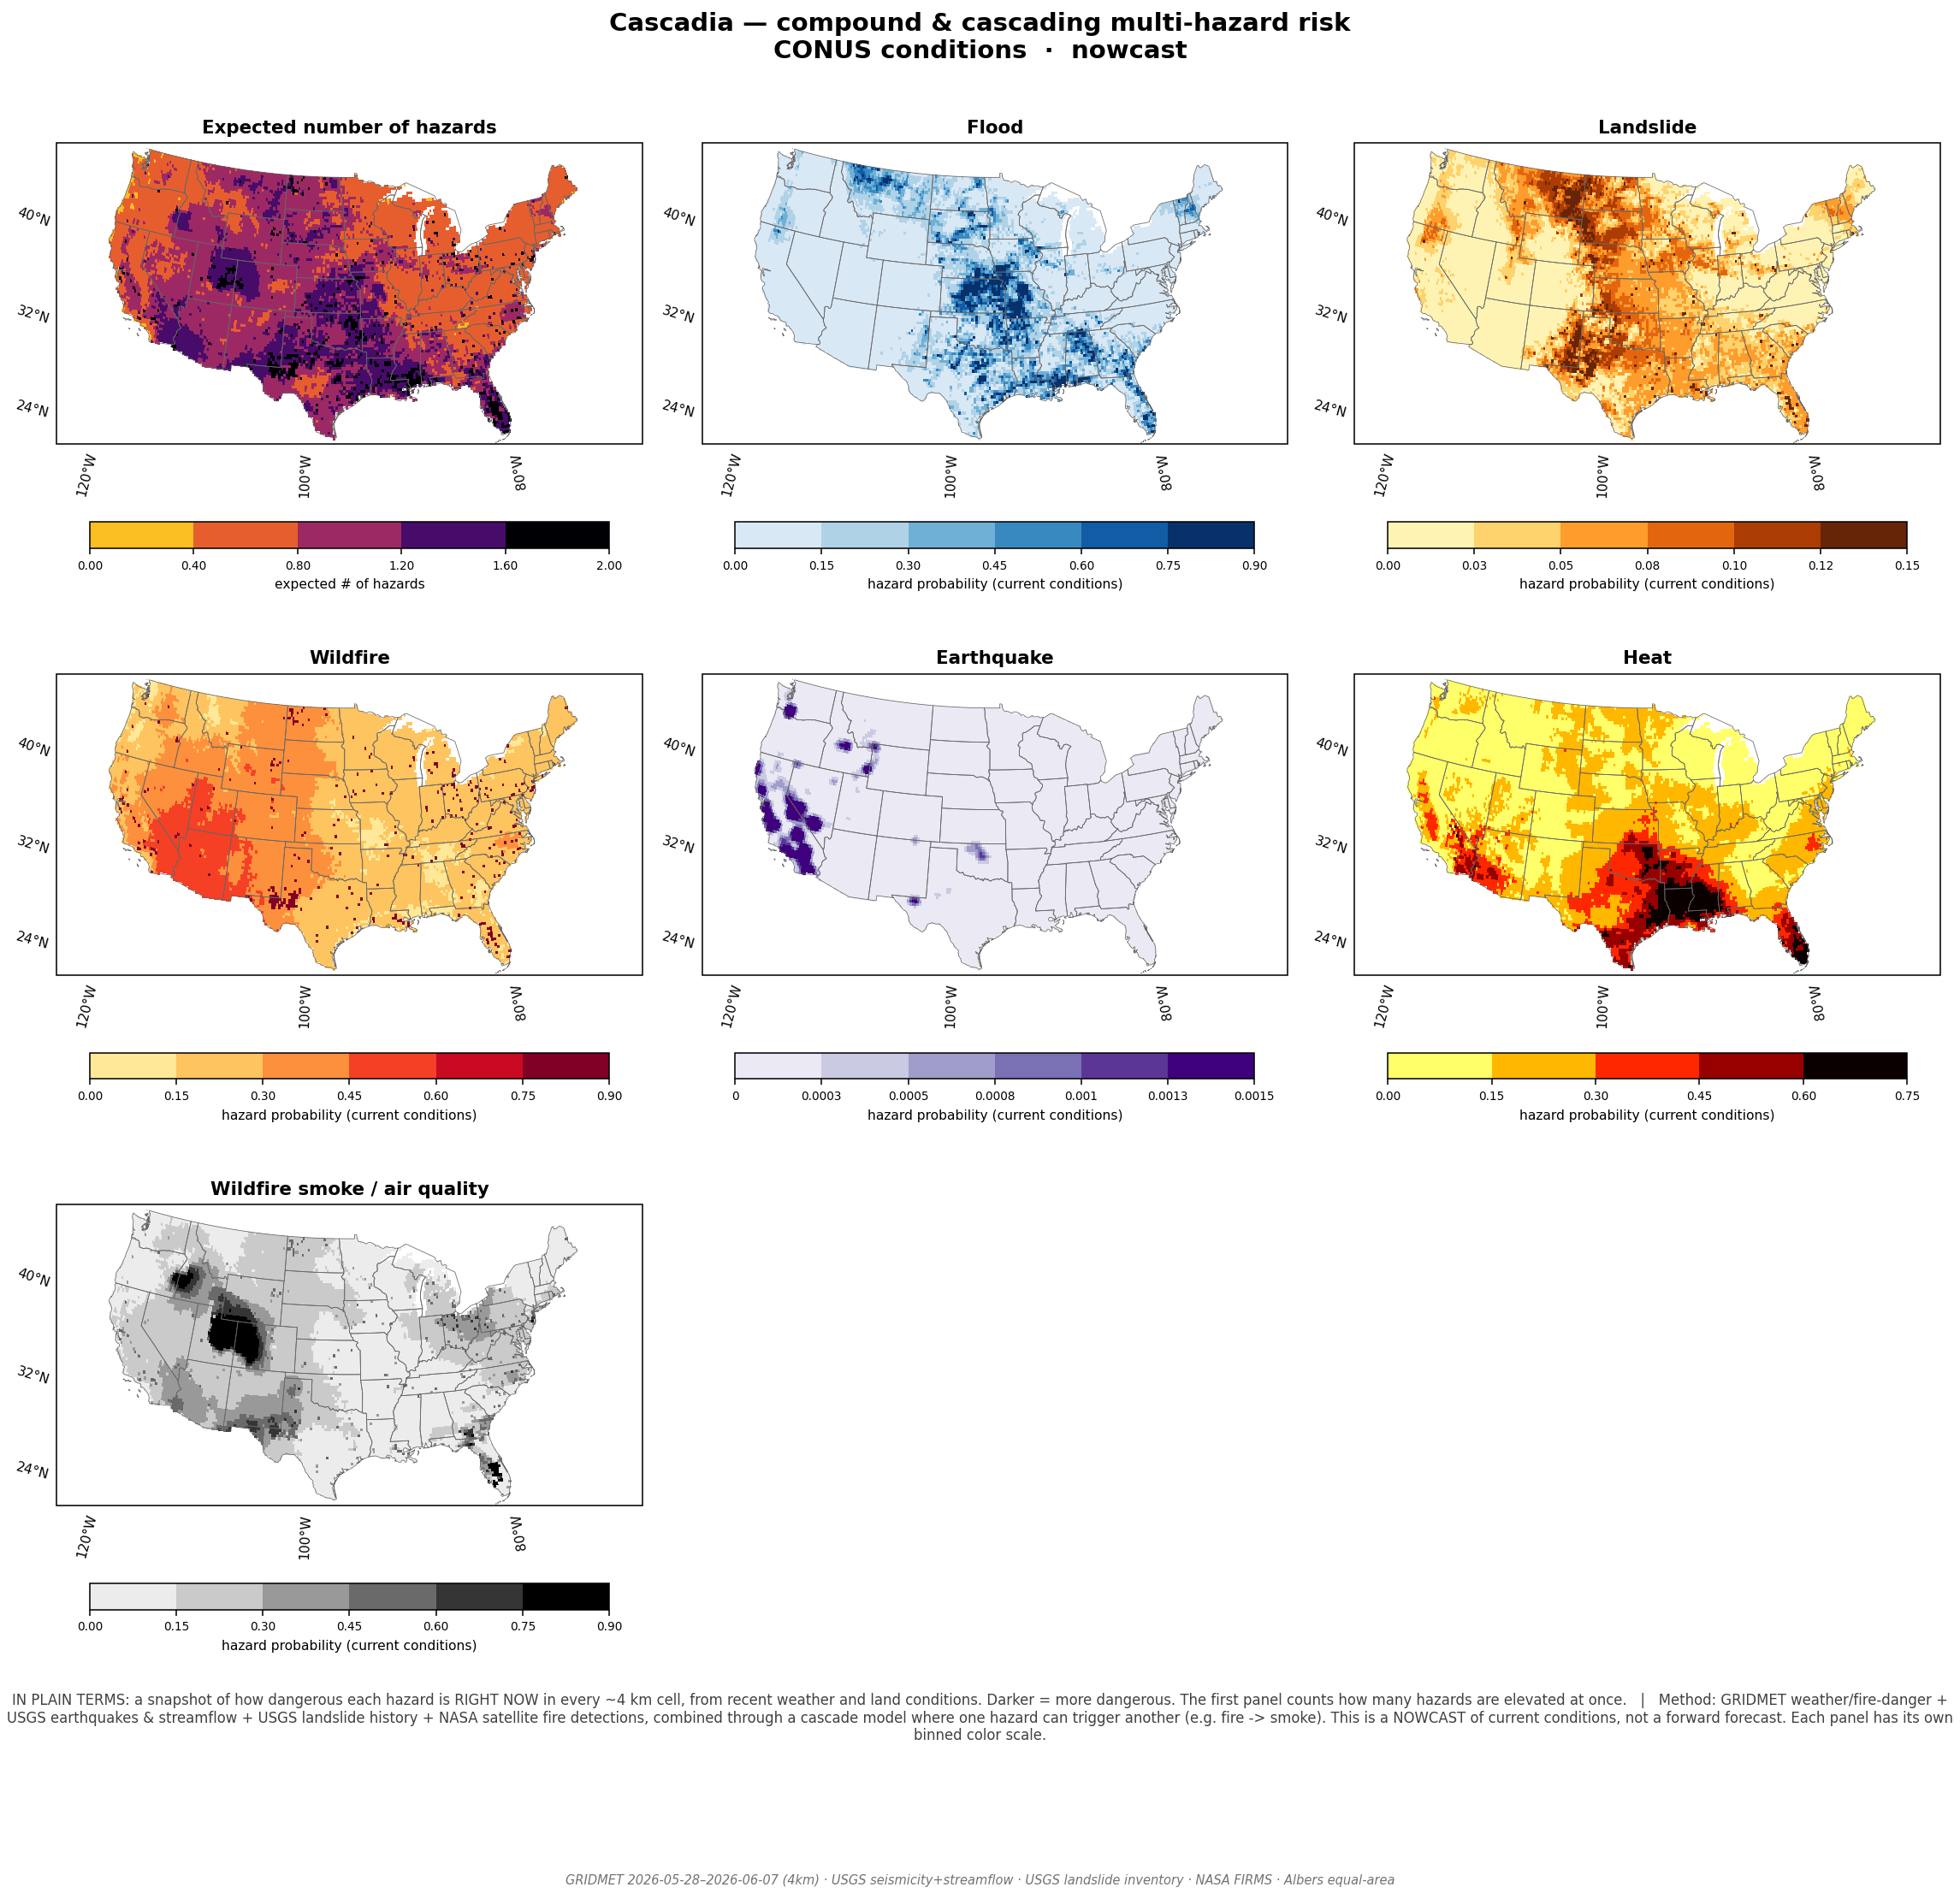
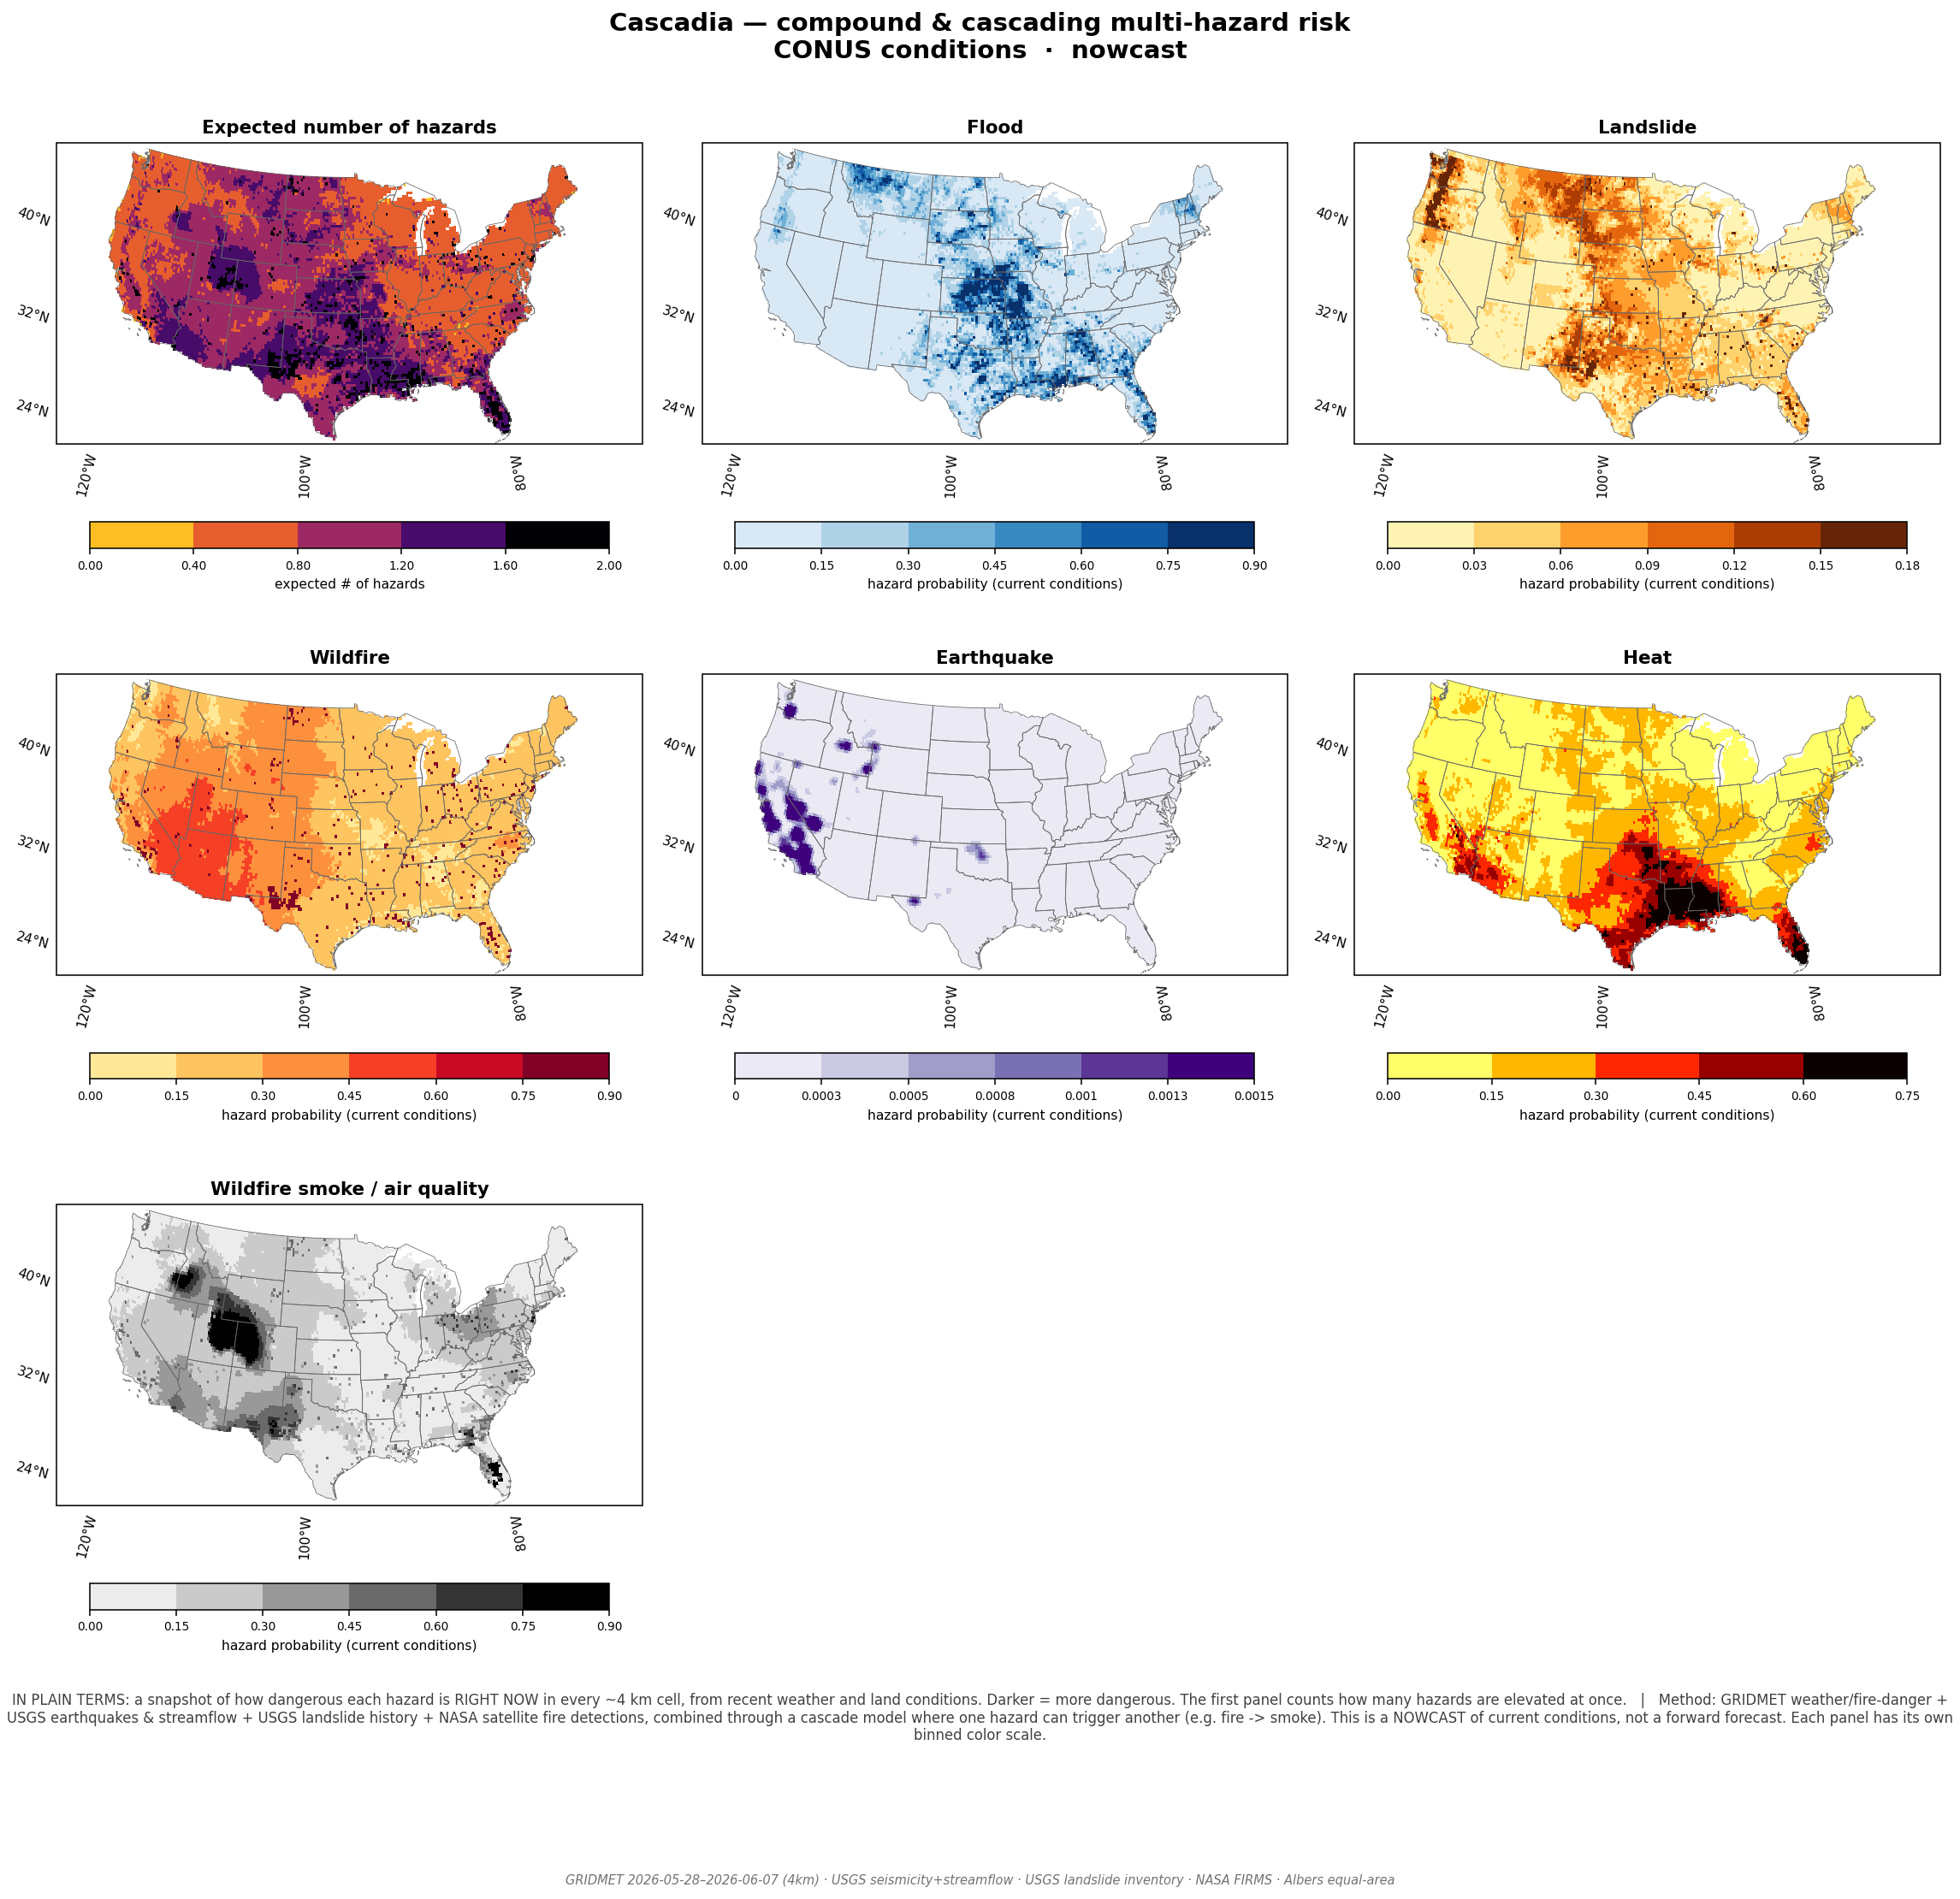
Fix landslide artifact: terrain gate so flat ground reads ~0
A reviewer-class catch: the CONUS map showed landslide risk across flat states
(Florida, the Plains) during heavy rain. Two causes, both fixed:

1) _landslide_susceptibility applied a 0.15 floor to EVERY cell, so flat,
   slide-free terrain inherited a baseline that heavy rain then triggered.
   Removed the floor: zero inventory density -> ~zero susceptibility.

2) The gridded pipeline had no terrain gate (only the per-parcel report fetched
   DEM slope). Added cell_relief() — local topographic relief via a cKDTree
   neighbourhood of cell-centre elevations (robust to grid alignment, unlike an
   exact-coordinate lookup) — and relief_factor() gating susceptibility: ~0 below
   ~40 m local relief (Florida, Plains), ramping to 1 by ~300 m. Wired into the
   conditions nowcast. Added retries to the batch elevation fetch so rate-limited
   chunks don't leave NaN holes.

Result: landslide signal now concentrates in the PNW, Rockies, Appalachians and
other real slide terrain; flat Florida/Plains read ~0 regardless of rainfall.
Refresh the CONUS hero image. 26 tests pass.

diff --git a/cascadia/sources/elevation.py b/cascadia/sources/elevation.py
@@ -19,20 +19,25 @@ import requests
 ELEV_URL = "https://api.open-meteo.com/v1/elevation"
 
 
-def _fetch_elevations(lats, lons, timeout: int = 60) -> np.ndarray:
-    """Elevation (m) for points, in chunks of 100 (the API limit)."""
+def _fetch_elevations(lats, lons, timeout: int = 60, retries: int = 4) -> np.ndarray:
+    """Elevation (m) for points, in chunks of 100 (the API limit), with retries on
+    failed chunks (the batch DEM API rate-limits, leaving NaN holes otherwise)."""
+    import time
     lats, lons = np.asarray(lats, float), np.asarray(lons, float)
     out = np.full(len(lats), np.nan)
     for i in range(0, len(lats), 100):
         sl = slice(i, i + 100)
         params = {"latitude": ",".join(f"{v:.5f}" for v in lats[sl]),
                   "longitude": ",".join(f"{v:.5f}" for v in lons[sl])}
-        try:
-            r = requests.get(ELEV_URL, params=params, timeout=timeout)
-            r.raise_for_status()
-            out[sl] = r.json()["elevation"]
-        except Exception:
-            pass
+        for attempt in range(retries):
+            try:
+                r = requests.get(ELEV_URL, params=params, timeout=timeout)
+                r.raise_for_status()
+                out[sl] = r.json()["elevation"]
+                break
+            except Exception:
+                if attempt < retries - 1:
+                    time.sleep(1.5 * (attempt + 1))
     return out
 
 
@@ -93,3 +98,46 @@ def slope_factor(slope_deg) -> np.ndarray:
     """Landslide slope susceptibility multiplier in [0,1]: ~0 below ~3 deg
     (flat = stable), rising to 1 by ~20 deg. Linear ramp 3->20 degrees."""
     return np.clip((np.asarray(slope_deg, float) - 3.0) / 17.0, 0.0, 1.0)
+
+
+def cell_relief(cells, cache_dir: Path, res_deg: float) -> np.ndarray:
+    """Local topographic relief (metres) per grid cell = elevation range over the
+    cell + its 8 neighbours. A scale-appropriate terrain gate for COARSE grids,
+    where a slope *angle* would be near-zero everywhere: flat terrain (Florida, the
+    Great Plains) has ~tens of m of relief, real mountains have hundreds+. Cached
+    per region (elevation is static)."""
+    lats = cells["lat"].to_numpy(); lons = cells["lon"].to_numpy()
+    key = hashlib.sha1(
+        f"relief_{lats.min():.3f}_{lats.max():.3f}_{lons.min():.3f}_{lons.max():.3f}"
+        f"_{res_deg}_{len(lats)}".encode()).hexdigest()[:16]
+    cache = Path(cache_dir) / f"relief_{key}.json"
+    if cache.exists():
+        try:
+            return np.array(json.loads(cache.read_text()))
+        except Exception:
+            pass
+    elev = _fetch_elevations(lats, lons)
+    # Spatial neighbourhood via KDTree on projected km — robust to grid alignment
+    # / float rounding (the exact-coordinate lookup silently missed neighbours).
+    from scipy.spatial import cKDTree
+    coslat = np.cos(np.radians(np.nanmean(lats)))
+    xy = np.column_stack([lons * 111.0 * coslat, lats * 111.0])
+    tree = cKDTree(xy)
+    radius_km = res_deg * 111.0 * 1.8   # ~the 8-neighbour ring
+    relief = np.zeros(len(lats))
+    for i in range(len(lats)):
+        nb = tree.query_ball_point(xy[i], radius_km)
+        vals = elev[nb]
+        vals = vals[np.isfinite(vals)]
+        relief[i] = float(np.ptp(vals)) if len(vals) >= 2 else 0.0
+    try:
+        cache.write_text(json.dumps(relief.tolist()))
+    except Exception:
+        pass
+    return relief
+
+
+def relief_factor(relief_m, r0: float = 40.0, r1: float = 300.0) -> np.ndarray:
+    """Terrain gate in [0,1] from local relief (m): ~0 on flat ground (relief <
+    ~40 m, e.g. Florida / the Plains), ramping to 1 by ~300 m of local relief."""
+    return np.clip((np.asarray(relief_m, float) - r0) / (r1 - r0), 0.0, 1.0)

diff --git a/cascadia/features/indicators.py b/cascadia/features/indicators.py
@@ -231,17 +231,23 @@ def _landslide_susceptibility(cells: pd.DataFrame, inventory: pd.DataFrame,
     """Relative landslide susceptibility in [0,1] from smoothed historical
     landslide density (USGS inventory). Like the seismicity prior but, since the
     inventory is a compilation rather than a complete temporal catalog, used as a
-    *relative* spatial susceptibility, not an absolute rate. A small floor keeps
-    rainfall triggering meaningful everywhere."""
+    *relative* spatial susceptibility, not an absolute rate.
+
+    NO floor: a cell with no historical slides reads ~0, so heavy rain over flat,
+    slide-free terrain (e.g. the Great Plains) does NOT manufacture a landslide
+    signal. The inventory itself is the terrain gate — slides are only recorded on
+    real slopes — which is what the per-parcel DEM slope gate enforces directly.
+    """
     import numpy as np
     if inventory is None or inventory.empty:
-        return pd.Series(0.3, index=cells.index)
+        return pd.Series(0.0, index=cells.index)
     d = _smoothed_density(cells["lat"].to_numpy(), cells["lon"].to_numpy(),
                           inventory["lat"].to_numpy(), inventory["lon"].to_numpy(),
                           bandwidth_km)
-    # Normalize by a high percentile (robust to a few dense clusters), floor 0.15.
+    # Normalize by a high percentile (robust to a few dense clusters). No floor:
+    # zero inventory density -> ~zero susceptibility -> ~zero landslide risk.
     scale = np.percentile(d, 95) or 1.0
-    return pd.Series(np.clip(0.15 + 0.85 * d / scale, 0.0, 1.0), index=cells.index)
+    return pd.Series(np.clip(d / scale, 0.0, 1.0), index=cells.index)
 
 
 def build_indicators(

diff --git a/cascadia/conditions.py b/cascadia/conditions.py
@@ -134,11 +134,17 @@ def conditions_map(region_key: str = "pnw", resolution_deg: float | None = None,
     cells["quake_mag"] = 0.0   # no per-cell aftershock layer in the broad nowcast
     inv = LandslideInventory(cfg).fetch()
     cells["ls_susceptibility"] = _landslide_susceptibility(cells, inv)
+    # Terrain gate: landslides need relief. Inventory density alone is biased by
+    # reporting (flat Florida has logged points); multiply by a local-relief gate
+    # so flat, slide-free terrain reads ~0 regardless of rain. (Coarse-grid
+    # equivalent of the per-parcel DEM slope gate.)
     try:
-        from .sources.elevation import cell_slopes
-        cells["slope_deg"] = cell_slopes(cells, cfg.cache_dir, res)
-    except Exception:
-        pass
+        from .sources.elevation import cell_relief, relief_factor
+        rf = relief_factor(cell_relief(cells, cfg.cache_dir, res))
+        cells["ls_susceptibility"] = cells["ls_susceptibility"] * rf
+        log(f"landslide terrain gate: {(rf > 0.1).mean():.0%} of cells have relief")
+    except Exception as e:
+        log(f"(relief gate skipped: {e})")
     log(f"priors: {len(cat)} quakes, {len(inv)} landslides")
 
     # --- observed fire + downwind smoke transport ------------------------